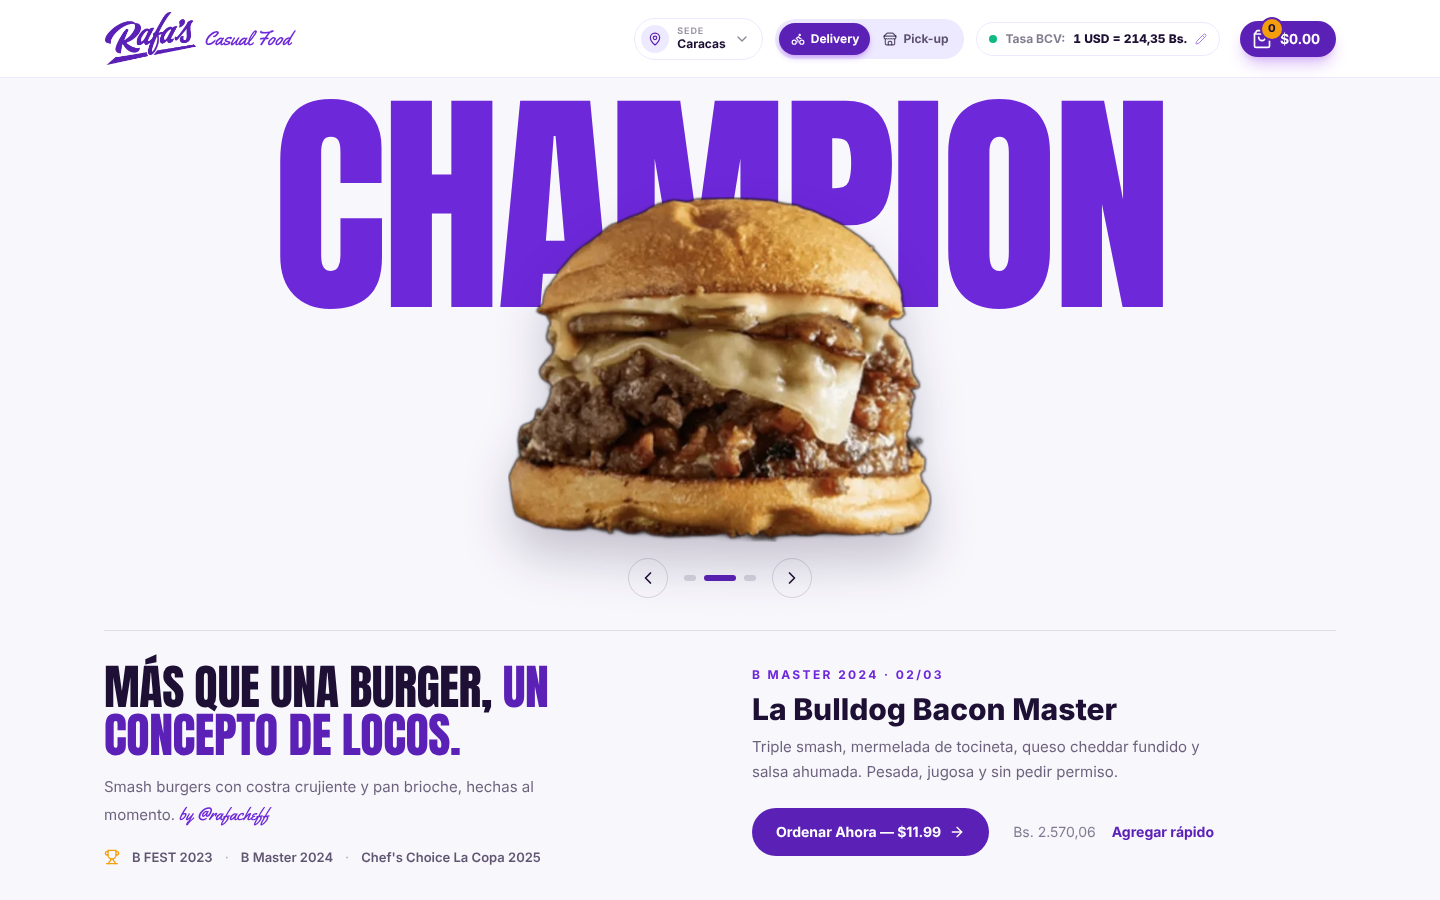
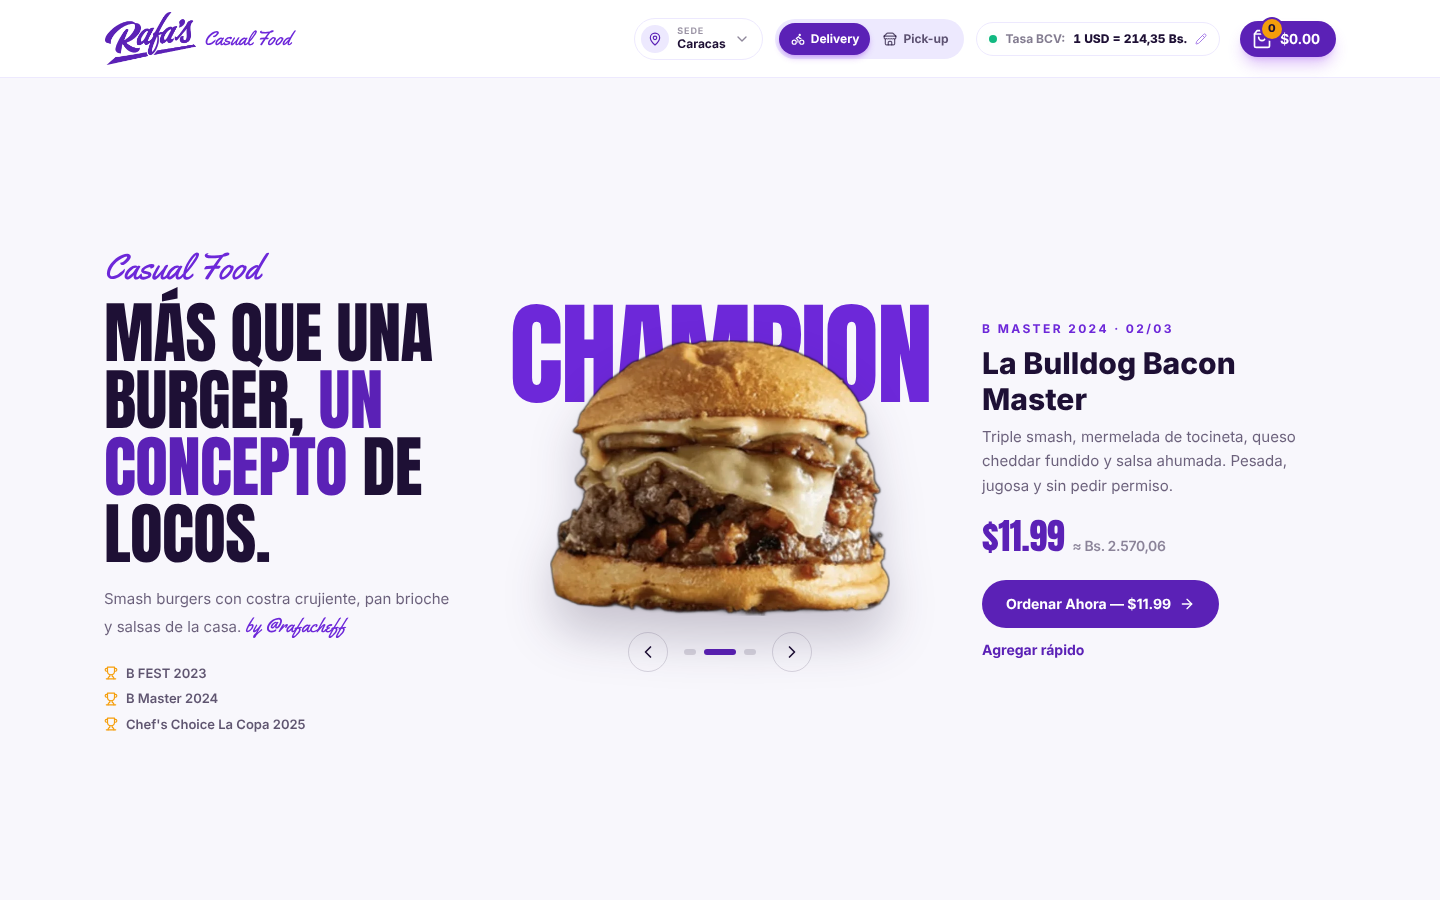
Restore hero headline to the left column
Back to the three-column layout (headline, burger, product) while
keeping the simplified look and the solid purple word.

Claude-Session: https://claude.ai/code/session_014sgvXnFPyf8sDkFWTnJEhX

diff --git a/rafas-casual-food/src/RafasApp.jsx b/rafas-casual-food/src/RafasApp.jsx
@@ -923,18 +923,18 @@ export default function RafasApp() {
           aria-roledescription="carrusel"
           aria-label="Hamburguesas insignia"
         >
-          <div className="mx-auto max-w-7xl px-4 pb-14 pt-8 sm:px-6 lg:pb-14 lg:pt-8">
-            {/* Giant word + burger */}
-            <div className="relative">
+          <div className="mx-auto grid max-w-7xl grid-cols-1 items-center gap-10 px-4 pb-14 pt-8 sm:px-6 lg:min-h-[calc(100vh-76px)] lg:grid-cols-[minmax(0,1fr)_minmax(0,1.3fr)_minmax(0,1fr)] lg:gap-8 lg:py-10">
+            {/* Center: giant word + burger */}
+            <div className="order-1 [container-type:inline-size] lg:order-2">
               <h2
                 key={heroProduct.heroWord}
                 className="rf-word-in font-display select-none whitespace-nowrap text-center uppercase leading-[0.8] text-[#6D28D9]"
-                style={{ fontSize: `min(${(92 / (heroProduct.heroWord.length * 0.6)).toFixed(2)}vw, ${Math.round(1180 / (heroProduct.heroWord.length * 0.6))}px, 15rem)` }}
+                style={{ fontSize: `min(${(118 / (heroProduct.heroWord.length * 0.6)).toFixed(2)}cqw, 15rem)` }}
                 aria-hidden="true"
               >
                 {heroProduct.heroWord}
               </h2>
-              <div className="relative mx-auto -mt-[14%] w-[82%] max-w-[460px] sm:-mt-[12%] lg:-mt-[105px]">
+              <div className="relative mx-auto -mt-[13%] w-[80%] max-w-[460px]">
                 <div style={{ transform: 'translate3d(calc(var(--mx) * 10px), calc(var(--my) * 6px), 0)' }} className="transition-transform duration-300 ease-out">
                   <img
                     key={heroProduct.id}
@@ -946,83 +946,82 @@ export default function RafasApp() {
                   />
                 </div>
               </div>
-            </div>
 
-            {/* Slider controls */}
-            <div className="mt-4 flex items-center justify-center gap-4">
-              <button
-                type="button"
-                onClick={() => heroGo(-1)}
-                aria-label="Hamburguesa anterior"
-                className="grid h-10 w-10 place-items-center rounded-full border border-[#1E1035]/15 text-[#1E1035] transition hover:border-[#5B21B6] hover:bg-[#5B21B6] hover:text-white"
-              >
-                <ChevronLeft className="h-5 w-5" />
-              </button>
-              <div className="flex items-center gap-2" role="tablist" aria-label="Seleccionar hamburguesa">
-                {HERO_SLIDES.map((p, i) => (
-                  <button
-                    key={p.id}
-                    type="button"
-                    role="tab"
-                    aria-selected={i === heroIndex}
-                    aria-label={p.name}
-                    onClick={() => setHeroIndex(i)}
-                    className={`h-1.5 rounded-full transition-all duration-500 ${i === heroIndex ? 'w-8 bg-[#5B21B6]' : 'w-3 bg-[#1E1035]/15 hover:bg-[#1E1035]/30'}`}
-                  />
-                ))}
-              </div>
-              <button
-                type="button"
-                onClick={() => heroGo(1)}
-                aria-label="Siguiente hamburguesa"
-                className="grid h-10 w-10 place-items-center rounded-full border border-[#1E1035]/15 text-[#1E1035] transition hover:border-[#5B21B6] hover:bg-[#5B21B6] hover:text-white"
-              >
-                <ChevronRight className="h-5 w-5" />
-              </button>
-            </div>
-
-            {/* Copy */}
-            <div className="mt-8 grid gap-10 border-t border-[#1E1035]/10 pt-8 md:grid-cols-2 md:gap-16">
-              <div>
-                <h1 className="font-display text-[2.4rem] uppercase leading-[0.95] text-[#1E1035] sm:text-5xl">
-                  Más que una burger, <span className="text-[#5B21B6]">un concepto de locos.</span>
-                </h1>
-                <p className="mt-4 max-w-md text-[15px] leading-relaxed text-[#1E1035]/65">
-                  Smash burgers con costra crujiente y pan brioche, hechas al momento. <span className="font-script text-lg text-[#6D28D9]">by @rafacheff</span>
-                </p>
-                <p className="mt-5 flex flex-wrap items-center gap-x-3 gap-y-1 text-[13px] font-semibold text-[#1E1035]/70">
-                  <Trophy className="h-4 w-4 text-[#F59E0B]" />
-                  {AWARDS.map((a, i) => (
-                    <span key={a.label}>
-                      {a.label} {a.year}
-                      {i < AWARDS.length - 1 && <span className="ml-3 text-[#1E1035]/25">·</span>}
-                    </span>
+              {/* Slider controls */}
+              <div className="mt-4 flex items-center justify-center gap-4">
+                <button
+                  type="button"
+                  onClick={() => heroGo(-1)}
+                  aria-label="Hamburguesa anterior"
+                  className="grid h-10 w-10 place-items-center rounded-full border border-[#1E1035]/15 text-[#1E1035] transition hover:border-[#5B21B6] hover:bg-[#5B21B6] hover:text-white"
+                >
+                  <ChevronLeft className="h-5 w-5" />
+                </button>
+                <div className="flex items-center gap-2" role="tablist" aria-label="Seleccionar hamburguesa">
+                  {HERO_SLIDES.map((p, i) => (
+                    <button
+                      key={p.id}
+                      type="button"
+                      role="tab"
+                      aria-selected={i === heroIndex}
+                      aria-label={p.name}
+                      onClick={() => setHeroIndex(i)}
+                      className={`h-1.5 rounded-full transition-all duration-500 ${i === heroIndex ? 'w-8 bg-[#5B21B6]' : 'w-3 bg-[#1E1035]/15 hover:bg-[#1E1035]/30'}`}
+                    />
                   ))}
-                </p>
-              </div>
-
-              <div key={heroProduct.id} className="rf-fade-up md:pt-1">
-                <p className="text-xs font-bold uppercase tracking-[.2em] text-[#6D28D9]">
-                  {heroProduct.heroTag} · 0{heroIndex + 1}/0{HERO_SLIDES.length}
-                </p>
-                <h2 className="mt-2 text-2xl font-extrabold leading-tight sm:text-3xl">{heroProduct.name}</h2>
-                <p className="mt-2 max-w-md text-[15px] leading-relaxed text-[#1E1035]/65">{heroProduct.description}</p>
-                <div className="mt-6 flex flex-wrap items-center gap-x-6 gap-y-4">
-                  <button
-                    type="button"
-                    onClick={() => openProduct(heroProduct)}
-                    className="inline-flex items-center gap-2 whitespace-nowrap rounded-full bg-[#5B21B6] px-6 py-3.5 text-sm font-bold text-white transition hover:bg-[#6D28D9]"
-                  >
-                    Ordenar Ahora — {fmtUSD(heroProduct.price)}
-                    <ArrowRight className="h-4 w-4" />
-                  </button>
-                  <p className="text-sm text-[#1E1035]/55">
-                    {fmtBs(heroProduct.price, rate)}
-                    <button type="button" onClick={() => addToCart(heroProduct)} className="ml-4 font-bold text-[#5B21B6] underline-offset-4 hover:underline">
-                      {justAdded === heroProduct.id ? 'Agregada ✓' : 'Agregar rápido'}
-                    </button>
-                  </p>
                 </div>
+                <button
+                  type="button"
+                  onClick={() => heroGo(1)}
+                  aria-label="Siguiente hamburguesa"
+                  className="grid h-10 w-10 place-items-center rounded-full border border-[#1E1035]/15 text-[#1E1035] transition hover:border-[#5B21B6] hover:bg-[#5B21B6] hover:text-white"
+                >
+                  <ChevronRight className="h-5 w-5" />
+                </button>
+              </div>
+            </div>
+
+            {/* Left: headline + awards */}
+            <div className="order-2 text-center lg:order-1 lg:text-left">
+              <p className="font-script text-3xl leading-none text-[#6D28D9] sm:text-4xl">Casual Food</p>
+              <h1 className="font-display mt-3 text-[2.6rem] uppercase leading-[0.92] text-[#1E1035] sm:text-6xl lg:text-[3.6rem] xl:text-[4.2rem]">
+                Más que una burger, <span className="text-[#5B21B6]">un concepto</span> de locos.
+              </h1>
+              <p className="mx-auto mt-5 max-w-sm text-[15px] leading-relaxed text-[#1E1035]/65 lg:mx-0">
+                Smash burgers con costra crujiente, pan brioche y salsas de la casa. <span className="font-script text-xl text-[#6D28D9]">by @rafacheff</span>
+              </p>
+              <ul className="mt-6 space-y-1.5 text-[13px] font-semibold text-[#1E1035]/70">
+                {AWARDS.map((a) => (
+                  <li key={a.label} className="flex items-center justify-center gap-2 lg:justify-start">
+                    <Trophy className="h-3.5 w-3.5 text-[#F59E0B]" />
+                    {a.label} {a.year}
+                  </li>
+                ))}
+              </ul>
+            </div>
+
+            {/* Right: active product */}
+            <div key={heroProduct.id} className="rf-fade-up order-3 text-center lg:text-left">
+              <p className="text-xs font-bold uppercase tracking-[.2em] text-[#6D28D9]">
+                {heroProduct.heroTag} · 0{heroIndex + 1}/0{HERO_SLIDES.length}
+              </p>
+              <h2 className="mt-2 text-2xl font-extrabold leading-tight sm:text-3xl">{heroProduct.name}</h2>
+              <p className="mx-auto mt-2 max-w-md text-[15px] leading-relaxed text-[#1E1035]/65 lg:mx-0">{heroProduct.description}</p>
+              <p className="mt-5 font-display text-4xl leading-none text-[#5B21B6]">
+                {fmtUSD(heroProduct.price)} <span className="font-sans text-sm font-semibold text-[#1E1035]/50">≈ {fmtBs(heroProduct.price, rate)}</span>
+              </p>
+              <div className="mt-6 flex flex-col items-center gap-3 lg:items-start">
+                <button
+                  type="button"
+                  onClick={() => openProduct(heroProduct)}
+                  className="inline-flex items-center gap-2 whitespace-nowrap rounded-full bg-[#5B21B6] px-6 py-3.5 text-sm font-bold text-white transition hover:bg-[#6D28D9]"
+                >
+                  Ordenar Ahora — {fmtUSD(heroProduct.price)}
+                  <ArrowRight className="h-4 w-4" />
+                </button>
+                <button type="button" onClick={() => addToCart(heroProduct)} className="text-sm font-bold text-[#5B21B6] underline-offset-4 hover:underline">
+                  {justAdded === heroProduct.id ? 'Agregada ✓' : 'Agregar rápido'}
+                </button>
               </div>
             </div>
           </div>
